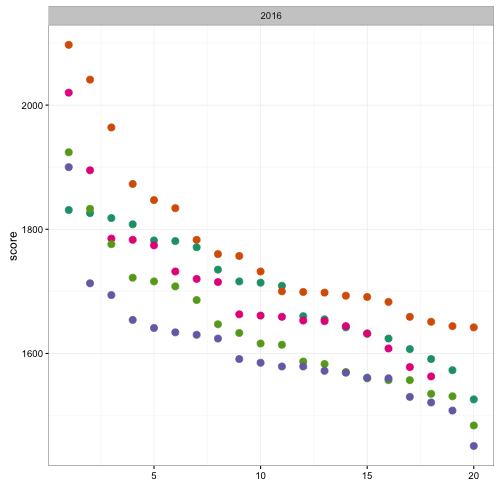
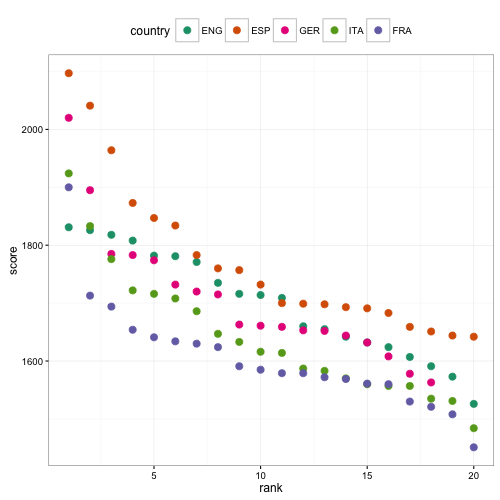
Re-ordererd

diff --git a/slides/r-ggplot/index.html b/slides/r-ggplot/index.html
@@ -117,6 +117,17 @@
 			max-height:55vh;
 		}
 
+		code {
+			padding:10px!important;
+			background-color:#041752!important;
+			color:#fff;
+			font-size:0.9em!important;
+		}
+
+		code .highlight{
+			background-color:rgba(172, 85, 27, 0.85);
+		}
+
 		@media screen and (max-width: 480px) {
 			.o-header__ft-masthead.demo__hide-on-mobile.demo__fix-svg-logo-position,.twitter-follow-button{
 				display:none;
@@ -251,104 +262,124 @@
 
 				<section style="text-align: left;">
 					<h4>1. Which countries have the best teams? </h4>
-					<img class='graphic fragment' src='football-tide-1.png'/>
-					<img class='graphic fragment' src='football-tide-2.png'/>
-				</section>
-
-				<section style="text-align: left;">
 					<code class="hljs hljs javascript hljs">
 #1<br>
-ggplot(data %>% <br>&nbsp;&nbsp;
-filter(year==2016)
-,aes(x=1,score,col=country)) + <br>&nbsp;&nbsp;
-geom_point(size=3) + <br>&nbsp;&nbsp;
-facet_wrap(~year, ncol=4) + <br>&nbsp;&nbsp;
-theme_bw() + <br>&nbsp;&nbsp;
-theme(legend.position="right", legend.direction="vertical") + <br>&nbsp;&nbsp;
-xlab('')
+<span class=fragment>ggplot(oneSeason, <br>&nbsp;&nbsp; </span>
+<span class=fragment><span class=highlight>aes(x=1,score,col=country)) + </span><br>&nbsp;&nbsp;</span>
+<span class=fragment><span class=highlight>geom_point(size=3) + </span></span><br>&nbsp;&nbsp;</span>
+<span class=fragment>theme_bw() + <br>&nbsp;&nbsp;</span>
+<span class=fragment><span class=highlight>theme(legend.position="right", legend.direction="vertical") +</span> <br>&nbsp;&nbsp;</span>
+<span class=fragment>xlab('')</span>
 					</code>
 				</section>
 
 				<section style="text-align: left;">
+					<h4>1. Which countries have the best teams? </h4>
+					<img class=graphic src='football-tide-1.png'/>
+				</section>
+
+				<section style="text-align: left;">
+					<h4>1.1. Which countries have the best teams?</h4>
+					<p>(with room to breathe)</p>
 					<code class="hljs hljs javascript hljs">
 #2<br>
-ggplot(data %>% <br>&nbsp;&nbsp;
-filter(year==2016)
-,aes(rank,score,col=country)) + <br>&nbsp;&nbsp;
-geom_point(size=3) + <br>&nbsp;&nbsp;
-facet_wrap(~year, ncol=4) + <br>&nbsp;&nbsp;
-theme_bw() + <br>&nbsp;&nbsp;
-theme(legend.position="none", legend.direction="vertical") + <br>&nbsp;&nbsp;
-xlab('')
+<span class=fragment>ggplot(oneSeason<br>&nbsp;&nbsp;</span>
+<span class=fragment>,aes(rank,<span class=highlight>score</span>,col=country)) + <br>&nbsp;&nbsp;</span>
+<span class=fragment>geom_point(size=3) + <br>&nbsp;&nbsp;</span>
+<span class=fragment>theme_bw() + <br>&nbsp;&nbsp;</span>
+<span class=fragment><span class=highlight>theme(legend.position="top")</span></span>
+					</code>
+				</section>
+
+				<section style="text-align: left;">
+					<h4>1.1. Which countries have the best teams? </h4>
+					<p>(with room to breathe)</p>
+					<img class='graphic' src='football-tide-2.png'/>
+				</section>
+
+				<section style="text-align: left;">
+					<h4>2. Which leagues are the most/least balanced? </h4>
+					<code class="hljs hljs javascript hljs">
+#3<br>
+<span class=fragment>ggplot(oneSeason <br>&nbsp;&nbsp;</span>
+<span class=fragment>,aes(rank,score,col=country)) +  <br>&nbsp;&nbsp;</span>
+<span class=fragment><span class=highlight>geom_path()</span> +  <br>&nbsp;&nbsp;</span>
+<span class=fragment>geom_point(size=3) +  <br>&nbsp;&nbsp;</span>
+<span class=fragment>theme_bw() + <br>&nbsp;&nbsp;</span>
+<span class=fragment>theme(legend.position="top")</span>
 					</code>
 				</section>
 
 				<section style="text-align: left;">
 					<h4>2. Which leagues are the most/least balanced? </h4>
-					<img class='graphic fragment' src='football-tide-3.png'/>
+					<img class='graphic' src='football-tide-3.png'/>
 				</section>
 
 				<section style="text-align: left;">
+					<h4>3. What is the 'quality gap' between a given pair of leagues? </h4>
 					<code class="hljs hljs javascript hljs">
-#3<br>
-ggplot(data %>%  <br>&nbsp;&nbsp;
-filter(year==2016) <br>&nbsp;&nbsp;
-,aes(rank,score,col=country)) +  <br>&nbsp;&nbsp;
-geom_path() +  <br>&nbsp;&nbsp;
-geom_point(size=3) +  <br>&nbsp;&nbsp;
-facet_wrap(~year, ncol=4) +  <br>&nbsp;&nbsp;
-theme_bw() + <br>&nbsp;&nbsp;
-theme(legend.position="top") + <br>&nbsp;&nbsp;
-xlab('')
+#4 step 1: preparing the data<br>
+<span class=fragment>engEsp <- oneSeason %>% <br>&nbsp;&nbsp;</span>
+<span class=fragment>filter(<span class=highlight>country %in% c('ENG','ESP')</span>) %>% <br>&nbsp;&nbsp;</span>
+<span class=fragment>dplyr::select(score, rank, country) %>%  <br>&nbsp;&nbsp;</span>
+<span class=fragment><span class=highlight>spread</span>(., country, score) %>%  <br>&nbsp;&nbsp;</span>
+<span class=fragment>rowwise() %>% <br>&nbsp;&nbsp;</span>
+<span class=fragment>mutate( <br>&nbsp;&nbsp;&nbsp;&nbsp;</span>
+<span class=fragment>gap = ESP-ENG, <br>&nbsp;&nbsp;&nbsp;&nbsp;</span>
+<span class=fragment>max = max(ESP,ENG), <br>&nbsp;&nbsp;&nbsp;&nbsp;</span>
+<span class=fragment>min = min(ESP,ENG) <br>&nbsp;&nbsp;</span>
+<span class=fragment>)</span>
 					</code>
 				</section>
 
 				<section style="text-align: left;">
 					<h4>3. What is the 'quality gap' between a given pair of leagues? </h4>
-					<img class='graphic fragment' src='football-tide-4.png'/>
-				</section>
-
-				<section style="text-align: left;">
 					<code class="hljs hljs javascript hljs">
-#4 step 1: preparing the data<br>
-engEsp <- data %>% <br>&nbsp;&nbsp;
-filter(year==2016 & country %in% c('ENG','ESP')) %>% <br>&nbsp;&nbsp;
-dplyr::select(score, year, rank, country) %>%  <br>&nbsp;&nbsp;
-spread(., country, score) %>%  <br>&nbsp;&nbsp;
-rowwise() %>% <br>&nbsp;&nbsp;
-mutate( <br>&nbsp;&nbsp;&nbsp;&nbsp;
-gap = ESP-ENG, <br>&nbsp;&nbsp;&nbsp;&nbsp;
-max = max(ESP,ENG), <br>&nbsp;&nbsp;&nbsp;&nbsp;
-min = min(ESP,ENG) <br>&nbsp;&nbsp;
-)
+#4 step 2: the plot<br>
+<span class=fragment>ggplot(<span class=highlight>engEsp</span>, <br>&nbsp;&nbsp; </span>
+<span class=fragment>aes(rank,score<span class=highlight>,fill=gap>0</span>)) + <br>&nbsp;&nbsp; </span>
+<span class=fragment><span class=highlight>geom_rect(aes(xmin = rank-0.5, xmax=rank+0.5, ymin=min, ymax=max), alpha=0.5) + </span><br>&nbsp;&nbsp;</span>
+<span class=fragment>theme_bw() + <br>&nbsp;&nbsp;</span>
+<span class=fragment>theme(legend.position="none")</span>
 					</code>
 				</section>
 
 				<section style="text-align: left;">
+					<h4>3. What is the 'quality gap' between a given pair of leagues? </h4>
+					<img class='graphic' src='football-tide-4.png'/>
+				</section>
+				
+				<section style="text-align: left;">
+					<h4>4. How does the <em>nth best</em> team in league <em>x</em> today compare to its predecessors? </h4>
 					<code class="hljs hljs javascript hljs">
-#4 step 2: the plot<br>
-ggplot(engEsp, aes(rank,min,fill=gap>0)) + <br>&nbsp;&nbsp; 
-  geom_rect(aes(xmin = rank-0.5, xmax=rank+0.5, ymin=min, ymax=max), alpha=0.5) + <br>&nbsp;&nbsp;
-  theme_bw() + <br>&nbsp;&nbsp;
-  theme(legend.position="top")
+#5<br>
+<span class=fragment>ggplot(oneSeason %>% <br>&nbsp;&nbsp; </span>
+<span class=fragment>filter(<span class=highlight>country == 'ENG'</span>), <br>&nbsp;&nbsp; </span>
+<span class=fragment>aes(rank,score,col=country)) +  <br>&nbsp;&nbsp; </span>
+<span class=fragment><span class=highlight>geom_ribbon(aes(ymin=atw, ymax=atb,  <br>&nbsp;&nbsp; fill=country), col='transparent', alpha=0.5) + </span><br>&nbsp;&nbsp; </span>
+<span class=fragment>geom_path(alpha=1, <span class=highlight>size=1.5</span>) +  <br>&nbsp;&nbsp; </span>
+<span class=fragment>geom_point(size=3) +  <br>&nbsp;&nbsp; </span>
+<span class=fragment>theme_bw() + <br>&nbsp;&nbsp; </span>
+<span class=fragment>theme(legend.position="none")</span>
 					</code>
 				</section>
 
 				<section style="text-align: left;">
 					<h4>4. How does the <em>nth best</em> team in league <em>x</em> today compare to its predecessors? </h4>
-					<img class='graphic fragment' src='football-tide-5.png'/>
+					<img class='graphic' src='football-tide-5.png'/>
 				</section>
 				
 				<section style="text-align: left;">
+					<h4>4.1. How does the <em>nth best</em> team in league <em>x</em> today compare to its predecessors? </h4>
 					<code class="hljs hljs javascript hljs">
-#5<br>
-ggplot(data %>% <br>&nbsp;&nbsp; 
-filter(year==2016 & country == 'ENG'),aes(rank,score,col=country)) +  <br>&nbsp;&nbsp; 
-geom_ribbon(aes(ymin = atw, ymax = atb,  <br>&nbsp;&nbsp; fill=country),col='transparent', alpha=0.5) + <br>&nbsp;&nbsp; 
-geom_path(alpha=1, size=1.5) +  <br>&nbsp;&nbsp; 
-geom_point(size=3) +  <br>&nbsp;&nbsp; 
-theme_bw() + <br>&nbsp;&nbsp; 
-theme(legend.position="none")
+#6<br>
+<span class=fragment>ggplot(oneSeason %>% <br>&nbsp;&nbsp; </span>
+<span class=fragment>filter(country == 'ENG'),  <br>&nbsp;&nbsp; </span>
+<span class=fragment>aes(rank,score,col=country, fill=country)) + <br>&nbsp;&nbsp;  </span>
+<span class=fragment><span class=highlight>geom_rect(aes(xmin=rank-0.5, xmax=rank+0.5, ymin = atw, ymax = atb), col='transparent', alpha=0.5) + </span><br>&nbsp;&nbsp; </span>
+<span class=fragment>geom_point(<span class=highlight>size=5</span>) +  <br>&nbsp;&nbsp; </span>
+<span class=fragment>theme_bw() + <br>&nbsp;&nbsp; </span>
+<span class=fragment>theme(legend.position="none") </span>
 					</code>
 				</section>
 
@@ -358,14 +389,16 @@ theme(legend.position="none")
 				</section>
 				
 				<section style="text-align: left;">
+					<h4>4.2. How does the <em>nth best</em> team in league <em>x</em> today compare to its predecessors? </h4>
 					<code class="hljs hljs javascript hljs">
-#6<br>
-ggplot(data %>% <br>&nbsp;&nbsp; 
-filter(year==2016 & country == 'ENG'),aes(rank,score,col=country, fill=country)) + <br>&nbsp;&nbsp;  
-geom_rect(aes(xmin=rank-0.5, xmax=rank+0.5, ymin = atw, ymax = atb),col='transparent', alpha=0.5) + <br>&nbsp;&nbsp; 
-geom_point(size=5) +  <br>&nbsp;&nbsp; 
-theme_bw() + <br>&nbsp;&nbsp; 
-theme(legend.position="none")
+#7<br>
+<span class=fragment>ggplot(oneSeason %>% <br>&nbsp;&nbsp; </span>
+<span class=fragment>filter(country == 'ENG'), <br>&nbsp;&nbsp; </span>
+<span class=fragment>aes(rank,score,col=country, fill=country)) +  <br>&nbsp;&nbsp; </span>
+<span class=fragment>geom_rect(aes(<span class=highlight>xmin=rank-0.45, xmax=rank+0.45</span>, ymin=atw, ymax=atb),col='transparent', alpha=0.5) + <br>&nbsp;&nbsp; </span>
+<span class=fragment>geom_point(size=5) +  <br>&nbsp;&nbsp; </span>
+<span class=fragment>theme_bw() + <br>&nbsp;&nbsp; </span>
+<span class=fragment>theme(legend.position="none") </span>
 					</code>
 				</section>
 
@@ -375,85 +408,84 @@ theme(legend.position="none")
 				</section>
 				
 				<section style="text-align: left;">
+					<h4>5. How have all of the above changed over time? </h4>
+					<p>First, the top teams and balance within each league</p>
 					<code class="hljs hljs javascript hljs">
-#7<br>
-ggplot(data %>% <br>&nbsp;&nbsp; 
-filter(year==2016 & country == 'ENG'),aes(rank,score,col=country, fill=country)) +  <br>&nbsp;&nbsp; 
-geom_rect(aes(xmin=rank-0.45, xmax=rank+0.45, ymin = atw, ymax = atb),col='transparent', alpha=0.5) + <br>&nbsp;&nbsp; 
-geom_point(size=5) +  <br>&nbsp;&nbsp; 
-theme_bw() + <br>&nbsp;&nbsp; 
-theme(legend.position="none")
+#8<br>
+<span class=fragment>ggplot(<span class=highlight>allSeasons</span>, <br>&nbsp;&nbsp; </span>
+<span class=fragment>aes(rank,score,col=country)) +  <br>&nbsp;&nbsp; </span>
+<span class=fragment>geom_path() +  <br>&nbsp;&nbsp; </span>
+<span class=fragment>geom_point(size=1) +  <br>&nbsp;&nbsp; </span>
+<span class=fragment><span class=highlight>facet_wrap(~year, ncol=4) +  </span><br>&nbsp;&nbsp; </span>
+<span class=fragment>theme_bw() + <br>&nbsp;&nbsp; </span>
+<span class=fragment>theme(legend.position="top") </span>
 					</code>
 				</section>
 
 				<section style="text-align: left;">
 					<h4>5. How have all of the above changed over time? </h4>
-					<p class=fragment>First, the top teams and balance within each league</p>
-					<img class='graphic fragment' src='football-tide-8.png'/>
+					<p>First, the top teams and balance within each league</p>
+					<img class='graphic' src='football-tide-8.png'/>
 				</section>
 				
 				<section style="text-align: left;">
+					<h4>5.1. How have all of the above changed over time? </h4>
+					<p>Quality gap between a pair of leagues</p>
 					<code class="hljs hljs javascript hljs">
-#8<br>
-ggplot(data,aes(rank,score,col=country)) +  <br>&nbsp;&nbsp; 
-geom_path() +  <br>&nbsp;&nbsp; 
-geom_point(size=1) +  <br>&nbsp;&nbsp;
-facet_wrap(~year, ncol=4) +  <br>&nbsp;&nbsp; 
-theme_bw() + <br>&nbsp;&nbsp; 
-theme(legend.position="top") <br>&nbsp;&nbsp; 
+#9 step 1: preparing the data<br>
+<span class=fragment>engEspAllYears <- allSeasons %>% <br>&nbsp;&nbsp;</span>
+<span class=fragment>filter(<span class=highlight>country %in% c('ENG','ESP')</span>) %>% <br>&nbsp;&nbsp;</span>
+<span class=fragment>dplyr::select(score,<span class=highlight>year</span>,rank,country) %>%  <br>&nbsp;&nbsp;</span>
+<span class=fragment>spread(., country, score) %>%  <br>&nbsp;&nbsp;</span>
+<span class=fragment>rowwise() %>% <br>&nbsp;&nbsp; </span>
+<span class=fragment>mutate( <br>&nbsp;&nbsp;&nbsp;&nbsp; </span>
+<span class=fragment>gap = ESP-ENG, <br>&nbsp;&nbsp;&nbsp;&nbsp; </span>
+<span class=fragment>max = max(ESP,ENG), <br>&nbsp;&nbsp;&nbsp;&nbsp; </span>
+<span class=fragment>min = min(ESP,ENG) <br>&nbsp;&nbsp; </span>
+<span class=fragment>) </span>
+					</code>
+				</section>
+				
+				<section style="text-align: left;">
+					<h4>5.1. How have all of the above changed over time? </h4>
+					<p>Quality gap between a pair of leagues</p>
+					<code class="hljs hljs javascript hljs">
+#9 step 2: the plot<br>
+<span class=fragment>ggplot(<span class=highlight>engEspAllYears</span>, <br>&nbsp;&nbsp; </span>
+<span class=fragment>aes(rank,score,fill=gap>0)) +  <br>&nbsp;&nbsp;</span>
+<span class=fragment>geom_rect(aes(xmin = rank-0.5, xmax=rank+0.5, ymin=min, ymax=max), alpha=0.5) + <br>&nbsp;&nbsp;</span>
+<span class=fragment><span class=highlight>facet_wrap(~year, ncol=4) + </span> <br>&nbsp;&nbsp;</span>
+<span class=fragment>theme_bw() + <br>&nbsp;&nbsp;</span>
+<span class=fragment>theme(legend.position="none")</span>
 					</code>
 				</section>
 
 				<section style="text-align: left;">
 					<h4>5.1. How have all of the above changed over time? </h4>
-					<p class=fragment>Quality gap between a pair of leagues</p>
-					<img class='graphic fragment' src='football-tide-9.png'/>
+					<p>Quality gap between a pair of leagues</p>
+					<img class='graphic' src='football-tide-9.png'/>
 				</section>
 				
 				<section style="text-align: left;">
+					<h4>5.2. How have all of the above changed over time? </h4>
+					<p>Individual teams in national, historical context</p>
 					<code class="hljs hljs javascript hljs">
-#9 step 1: preparing the data<br>
-engEspAllYears <- data %>% <br>&nbsp;&nbsp;
-filter(country %in% c('ENG','ESP')) %>% <br>&nbsp;&nbsp;
-dplyr::select(score, year, rank, country) %>%  <br>&nbsp;&nbsp;
-spread(., country, score) %>%  <br>&nbsp;&nbsp;
-rowwise() %>% <br>&nbsp;&nbsp;
-mutate( <br>&nbsp;&nbsp;&nbsp;&nbsp;
-gap = ESP-ENG, <br>&nbsp;&nbsp;&nbsp;&nbsp;
-max = max(ESP,ENG), <br>&nbsp;&nbsp;&nbsp;&nbsp;
-min = min(ESP,ENG) <br>&nbsp;&nbsp;
-)
-					</code>
-				</section>
-				
-				<section style="text-align: left;">
-					<code class="hljs hljs javascript hljs">
-#9 step 2: the plot<br>
-ggplot(engEspAllYears ,aes(rank,min,fill=gap>0)) +  <br>&nbsp;&nbsp;
-geom_rect(aes(xmin = rank-0.5, xmax=rank+0.5, ymin=min, ymax=max), alpha=0.5) + <br>&nbsp;&nbsp;
-facet_wrap(~year, ncol=4) +  <br>&nbsp;&nbsp;
-theme_bw() + <br>&nbsp;&nbsp;
-theme(legend.position="none")
+#10<br>
+<span class=fragment>ggplot(allSeasons %>% filter(country=='ENG'),<br>&nbsp;&nbsp; </span>
+<span class=fragment>aes(rank,score,col=country,fill=country))+<br>&nbsp;&nbsp; </span>
+<span class=fragment>geom_rect(aes(xmin=rank-0.45, xmax=rank+0.45, ymin=atw, ymax=atb), col='transparent', alpha=0.5) + <br>&nbsp;&nbsp; </span>
+<span class=fragment>geom_path(alpha=1) +  <br>&nbsp;&nbsp; </span>
+<span class=fragment>geom_point(size=1) +  <br>&nbsp;&nbsp;</span>
+<span class=fragment><span class=highlight>facet_wrap(~year, ncol=4) + </span> <br>&nbsp;&nbsp; </span>
+<span class=fragment>theme_bw() + <br>&nbsp;&nbsp; </span>
+<span class=fragment>theme(legend.position="none") </span>
 					</code>
 				</section>
 
 				<section style="text-align: left;">
 					<h4>5.2. How have all of the above changed over time? </h4>
-					<p class=fragment>Individual teams in national, historical context</p>
-					<img class='graphic fragment' src='football-tide-10.png'/>
-				</section>
-				
-				<section style="text-align: left;">
-					<code class="hljs hljs javascript hljs">
-#10<br>
-ggplot(data %>% filter(country == 'ENG'),aes(rank,score,col=country, fill=country)) +  <br>&nbsp;&nbsp; 
-geom_rect(aes(xmin=rank-0.45, xmax=rank+0.45, ymin = atw, ymax = atb),col='transparent', alpha=0.5) + <br>&nbsp;&nbsp; 
-geom_path(alpha=1) +  <br>&nbsp;&nbsp; 
-geom_point(size=1) +  <br>&nbsp;&nbsp;
-facet_wrap(~year, ncol=4) +  <br>&nbsp;&nbsp; 
-theme_bw() + <br>&nbsp;&nbsp; 
-theme(legend.position="none")
-					</code>
+					<p>Individual teams in national, historical context</p>
+					<img class='graphic' src='football-tide-10.png'/>
 				</section>
 
 				<section style="text-align: left;">
